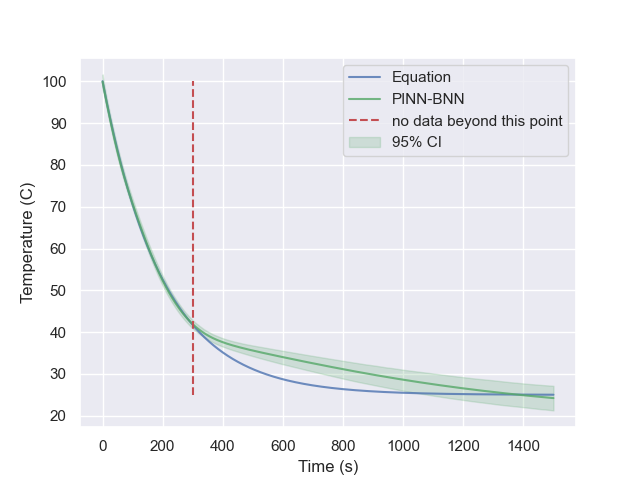
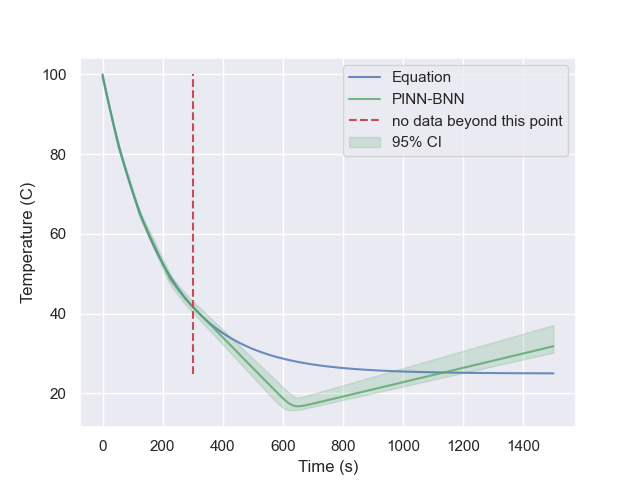
small update

diff --git a/PINN/european_call/pinn.py b/PINN/european_call/pinn.py
@@ -1,0 +1,87 @@
+import matplotlib.pyplot as plt
+import numpy as np
+import torch
+import torch.nn as nn
+import torch.nn.functional as F
+import torch.optim as optim
+import seaborn as sns
+from PINN.common import SGLD
+from PINN.common.torch_layers import EFI_Net
+from PINN.common.base_pinn import BasePINN
+from PINN.models.european_call import EuropeanCall
+
+
+class PINN(BasePINN):
+    def __init__(
+        self,
+        physics_model,
+        hidden_layers=[15, 15],
+        lr=1e-3,
+        physics_loss_weight=10,
+    ) -> None:
+        super().__init__(physics_model, hidden_layers, lr, physics_loss_weight)
+        
+
+    def update(self):
+        self.optimiser.zero_grad()
+        outputs = self.net(self.X)
+        loss = self.mse_loss(self.y, outputs)
+        loss += self.physics_loss_weight * self.physics_loss(self.net)
+        
+        loss.backward()
+        self.optimiser.step()
+        
+        return loss
+    
+
+
+if __name__ == '__main__':
+    sns.set_theme()
+    torch.manual_seed(1234)
+
+
+    physics_model = EuropeanCall()
+    
+
+    pinn_efi = PINN(physics_model=physics_model, 
+                        physics_loss_weight=5, 
+                        lr=1e-3, 
+                        hidden_layers=[20, 20, 20]
+                        )
+
+    # print(pinn_efi.eval_X.shape)
+    
+    losses = pinn_efi.train(epochs=20000)
+
+
+    # preds = pinn_efi.predict(times.reshape(-1,1))
+    grids = 100
+    
+    preds_upper, preds_lower, preds_mean = pinn_efi.summary()
+    preds_upper = preds_upper.flatten().reshape(grids,grids).numpy()
+    preds_lower = preds_lower.flatten().reshape(grids,grids).numpy()
+    preds_mean = preds_mean.flatten().reshape(grids,grids).numpy()
+    
+    S_grid = physics_model.eval_X[:,1].reshape(grids,grids).numpy()
+    t_grid = 1-physics_model.eval_X[:,0].reshape(grids,grids).numpy()
+    
+    np.savez('PINN/european_call/output.npz', preds_upper=preds_upper, preds_lower=preds_lower, preds_mean=preds_mean, S_grid=S_grid, t_grid=t_grid)
+    
+    fig = plt.figure()
+    ax = fig.add_subplot(111, projection='3d') 
+    im = ax.plot_surface(S_grid,
+                         t_grid, 
+                         preds_mean, 
+                         cmap='plasma')
+    
+    
+    
+    fig.colorbar(im, shrink=0.5, aspect=5, pad=0.07)
+    ax.set_xlabel('Stock Price')
+    ax.set_ylabel('Time to Maturity')
+    ax.set_zlabel('Option Price')
+    ax.view_init(elev=30, azim=225)
+    plt.savefig('PINN/european_call/european_call_pinn.png')
+    plt.show()
+    
+

diff --git a/PINN/pinn_bnn.py b/PINN/pinn_bnn.py
@@ -1,4 +1,5 @@
 import torch
+import torch.nn as nn
 import torch.optim as optim
 import torchbnn as bnn
 from PINN.common.base_pinn import BasePINN
@@ -12,12 +13,14 @@ class PINN_BNN(BasePINN):
         self,
         physics_model,
         hidden_layers=[15, 15],
+        activation_fn=nn.Softplus(beta=10),
         lr=1e-3,
-        physics_loss_weight=10,
+        physics_loss_weight=1,
+        kl_weight=1e-1,
     ) -> None:
-        super().__init__(physics_model, hidden_layers, lr, physics_loss_weight)
+        super().__init__(physics_model, hidden_layers, activation_fn, lr, physics_loss_weight)
         self.kl_loss = bnn.BKLLoss(reduction='mean', last_layer_only=False)
-        self.kl_weight = 1e-1
+        self.kl_weight = kl_weight
         
 
     def _pinn_init(self):
@@ -50,7 +53,7 @@ if __name__ == '__main__':
     times = torch.linspace(0, t_extend, t_extend)
     temps = physics_model.physics_law(times)
 
-    pinn = PINN_BNN(physics_model=physics_model, physics_loss_weight=10, lr=1e-3)
+    pinn = PINN_BNN(physics_model=physics_model, physics_loss_weight=10, lr=1e-2)
 
     losses = pinn.train(epochs=30000)
 

diff --git a/PINN/pinn.py b/PINN/pinn.py
@@ -1,4 +1,5 @@
 import torch
+import torch.nn as nn
 from PINN.common.base_pinn import BasePINN
 from PINN.models.cooling import Cooling
 import seaborn as sns
@@ -9,10 +10,11 @@ class PINN(BasePINN):
         self,
         physics_model,
         hidden_layers=[15, 15],
+        activation_fn=nn.Softplus(beta=10),
         lr=1e-3,
-        physics_loss_weight=10,
+        physics_loss_weight=1,
     ) -> None:
-        super().__init__(physics_model, hidden_layers, lr, physics_loss_weight)
+        super().__init__(physics_model, hidden_layers, activation_fn, lr, physics_loss_weight)
         
 
     def update(self):
@@ -41,7 +43,7 @@ if __name__ == '__main__':
     times = torch.linspace(0, t_extend, t_extend)
     temps = physics_model.physics_law(times)
 
-    pinn = PINN(physics_model=physics_model, physics_loss_weight=10, lr=1e-3)
+    pinn = PINN(physics_model=physics_model, physics_loss_weight=50, lr=1e-3)
 
     losses = pinn.train(epochs=10000)
 

diff --git a/PINN/european_call/pinn_efi.py b/PINN/european_call/pinn_efi.py
@@ -17,13 +17,14 @@ class PINN_EFI(BasePINN):
         self,
         physics_model,
         hidden_layers=[15, 15],
+        activation_fn=nn.Softplus(beta=10),
         lr=1e-3,
         physics_loss_weight=10,
         sgld_lr=1e-3,
         lambda_y=1,
         lambda_theta=1,
     ) -> None:
-        super().__init__(physics_model, hidden_layers, lr, physics_loss_weight)
+        super().__init__(physics_model, hidden_layers, activation_fn, lr, physics_loss_weight)
         
         # EFI configs
         self.sgld_lr = sgld_lr
@@ -31,7 +32,7 @@ class PINN_EFI(BasePINN):
         self.lambda_theta = lambda_theta
         
         self.noise_sd = physics_model.noise_sd
-        self.activation_fn = nn.Softplus(beta=5)
+
     
     def _pinn_init(self):
         # init EFI net and optimiser

diff --git a/PINN/pinn_efi.py b/PINN/pinn_efi.py
@@ -1,5 +1,6 @@
 import matplotlib.pyplot as plt
 import torch
+import torch.nn as nn
 import torch.optim as optim
 import seaborn as sns
 from PINN.common import SGLD
@@ -13,13 +14,14 @@ class PINN_EFI(BasePINN):
         self,
         physics_model,
         hidden_layers=[15, 15],
+        activation_fn=nn.Softplus(beta=10),
         lr=1e-3,
         physics_loss_weight=10,
         sgld_lr=1e-3,
         lambda_y=1,
         lambda_theta=1,
     ) -> None:
-        super().__init__(physics_model, hidden_layers, lr, physics_loss_weight)
+        super().__init__(physics_model, hidden_layers, activation_fn, lr, physics_loss_weight)
         
         # EFI configs
         self.sgld_lr = sgld_lr

diff --git a/PINN/pinn_dropout.py b/PINN/pinn_dropout.py
@@ -1,4 +1,5 @@
 import torch
+import torch.nn as nn
 import torch.optim as optim
 from PINN.common.base_pinn import BasePINN
 from PINN.common.torch_layers import DropoutDNN
@@ -12,11 +13,12 @@ class PINN_DROPOUT(BasePINN):
         self,
         physics_model,
         hidden_layers=[15, 15],
+        activation_fn=nn.Softplus(beta=10),
         lr=1e-3,
         physics_loss_weight=10,
         dropout_rate=0.01,
     ) -> None:
-        super().__init__(physics_model, hidden_layers, lr, physics_loss_weight)
+        super().__init__(physics_model, hidden_layers, activation_fn, lr, physics_loss_weight)
 
         # Dropout config
         self.dropout_rate = dropout_rate

diff --git a/PINN/common/base_pinn.py b/PINN/common/base_pinn.py
@@ -13,8 +13,9 @@ class BasePINN(object):
         self,
         physics_model,
         hidden_layers=[15, 15],
+        activation_fn=nn.Softplus(beta=10),
         lr=1e-3,
-        physics_loss_weight=10,
+        physics_loss_weight=1,
     ) -> None:
         super().__init__()
         self.physics_model = physics_model
@@ -28,8 +29,8 @@ class BasePINN(object):
         # Common configs
         self.lr = lr
         self.hidden_layers = hidden_layers
+        self.activation_fn = activation_fn
         self.mse_loss = nn.MSELoss()
-        self.activation_fn = F.softplus
         
         self.collection = []
 

diff --git a/PINN/models/cooling.py b/PINN/models/cooling.py
@@ -23,7 +23,7 @@ class Cooling(PhysicsModel):
         super().__init__(Tenv=Tenv, T0=T0, R=R, t_end=t_end, t_extend=t_extend, noise_sd=noise_sd)
 
         
-    def _data_generation(self, n_samples=200):
+    def _data_generation(self, n_samples=50):
         t = torch.linspace(0, self.t_end, n_samples).reshape(n_samples, -1)
         T = self.physics_law(t) +  self.noise_sd * torch.randn(n_samples).reshape(n_samples, -1)
         

diff --git a/PINN/common/torch_layers.py b/PINN/common/torch_layers.py
@@ -117,7 +117,7 @@ class EFI_Net(nn.Module):
                  activation_fn=F.softplus, 
                  prior_sd=0.1, 
                  sparse_sd=0.01, 
-                 sparsity=0.5):
+                 sparsity=1.0):
         super(EFI_Net, self).__init__()
         
         # EFI Net Info

diff --git a/PINN/models/european_call.py b/PINN/models/european_call.py
@@ -4,7 +4,6 @@ import torch
 import torch.nn as nn
 import torch.nn.functional as F
 import torch.distributions as dist
-from torch.autograd.functional import jacobian
 
 from PINN.common.grad_tool import grad
 from PINN.common.base_physics import PhysicsModel

diff --git a/PINN/european_call/plot_fig.py b/PINN/european_call/plot_fig.py
@@ -47,7 +47,7 @@ if __name__ == '__main__':
 
     # plot_3D()
     
-    print(t_grid[:,0])
+    # print(t_grid[:,0])
     true_price = model.physics_law(S_grid[:,0], t_grid[:,0])
     
     
